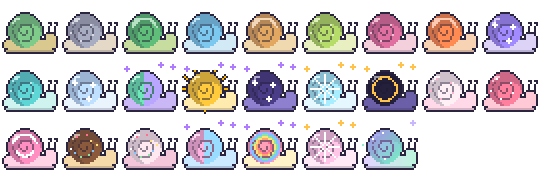
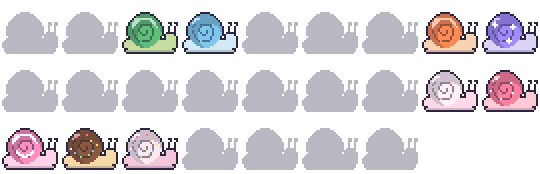
Show the MOSS snail collection as silhouettes only
Claude-Session: https://claude.ai/code/session_01MN1hb1XWX5HMpkgoqtLcrn

diff --git a/index.html b/index.html
@@ -397,7 +397,7 @@ footer .logo{font-size:20px;color:var(--ink)}
       <div class="moss-shots" aria-hidden="true">
         <img class="s1" src="moss/welcome-card.png" alt="" loading="lazy" width="1000" height="380">
         <img class="s2" src="moss/rank-card-custom.png" alt="" loading="lazy" width="880" height="334">
-        <div class="moss-snails"><img src="moss/snails.png" alt="" loading="lazy" width="540" height="174"><span>25 snails<br>to collect</span></div>
+        <div class="moss-snails"><img src="moss/snails.png" alt="" loading="lazy" width="540" height="174"><span>25 snails,<br>most still secret</span></div>
       </div>
     </article>
     <p class="moss-note">MOSS is free for everyone. A bot made just for your community works the same way, only it's yours: your look, your features, your rules.</p>
